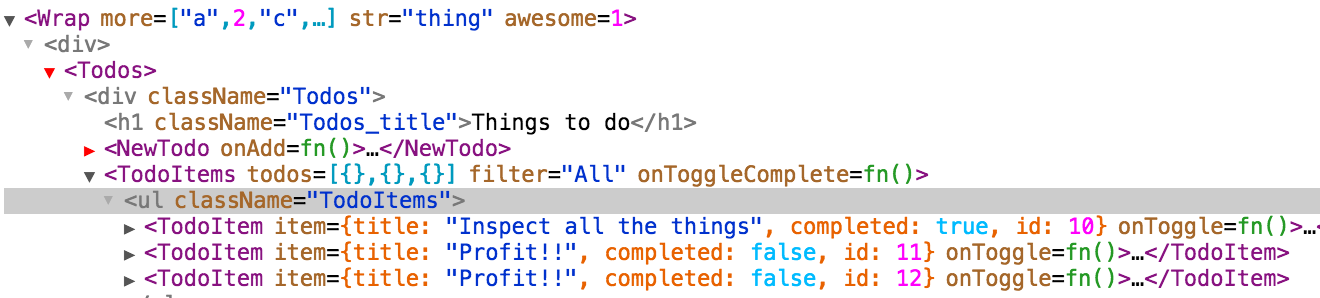
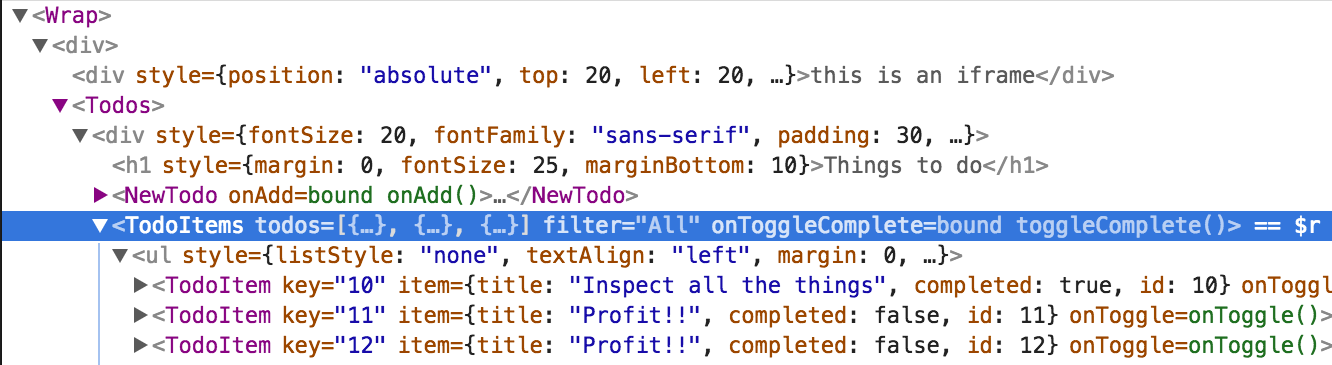
Improve wording for stateful components in README to no longer refer to color red

diff --git a/README.md b/README.md
@@ -35,7 +35,7 @@ A quick way to bring up the DevTools is to right-click on the page and press Ins
 - Arrow keys or hjkl for navigation
 - Right click a component to show in elements pane, scroll into view, show
   source, etc.
-- A red collapser means the component has state/context
+- Differently-colored collapser means the component has state/context
 
 ![](/images/devtools-tree-view.png)
 
